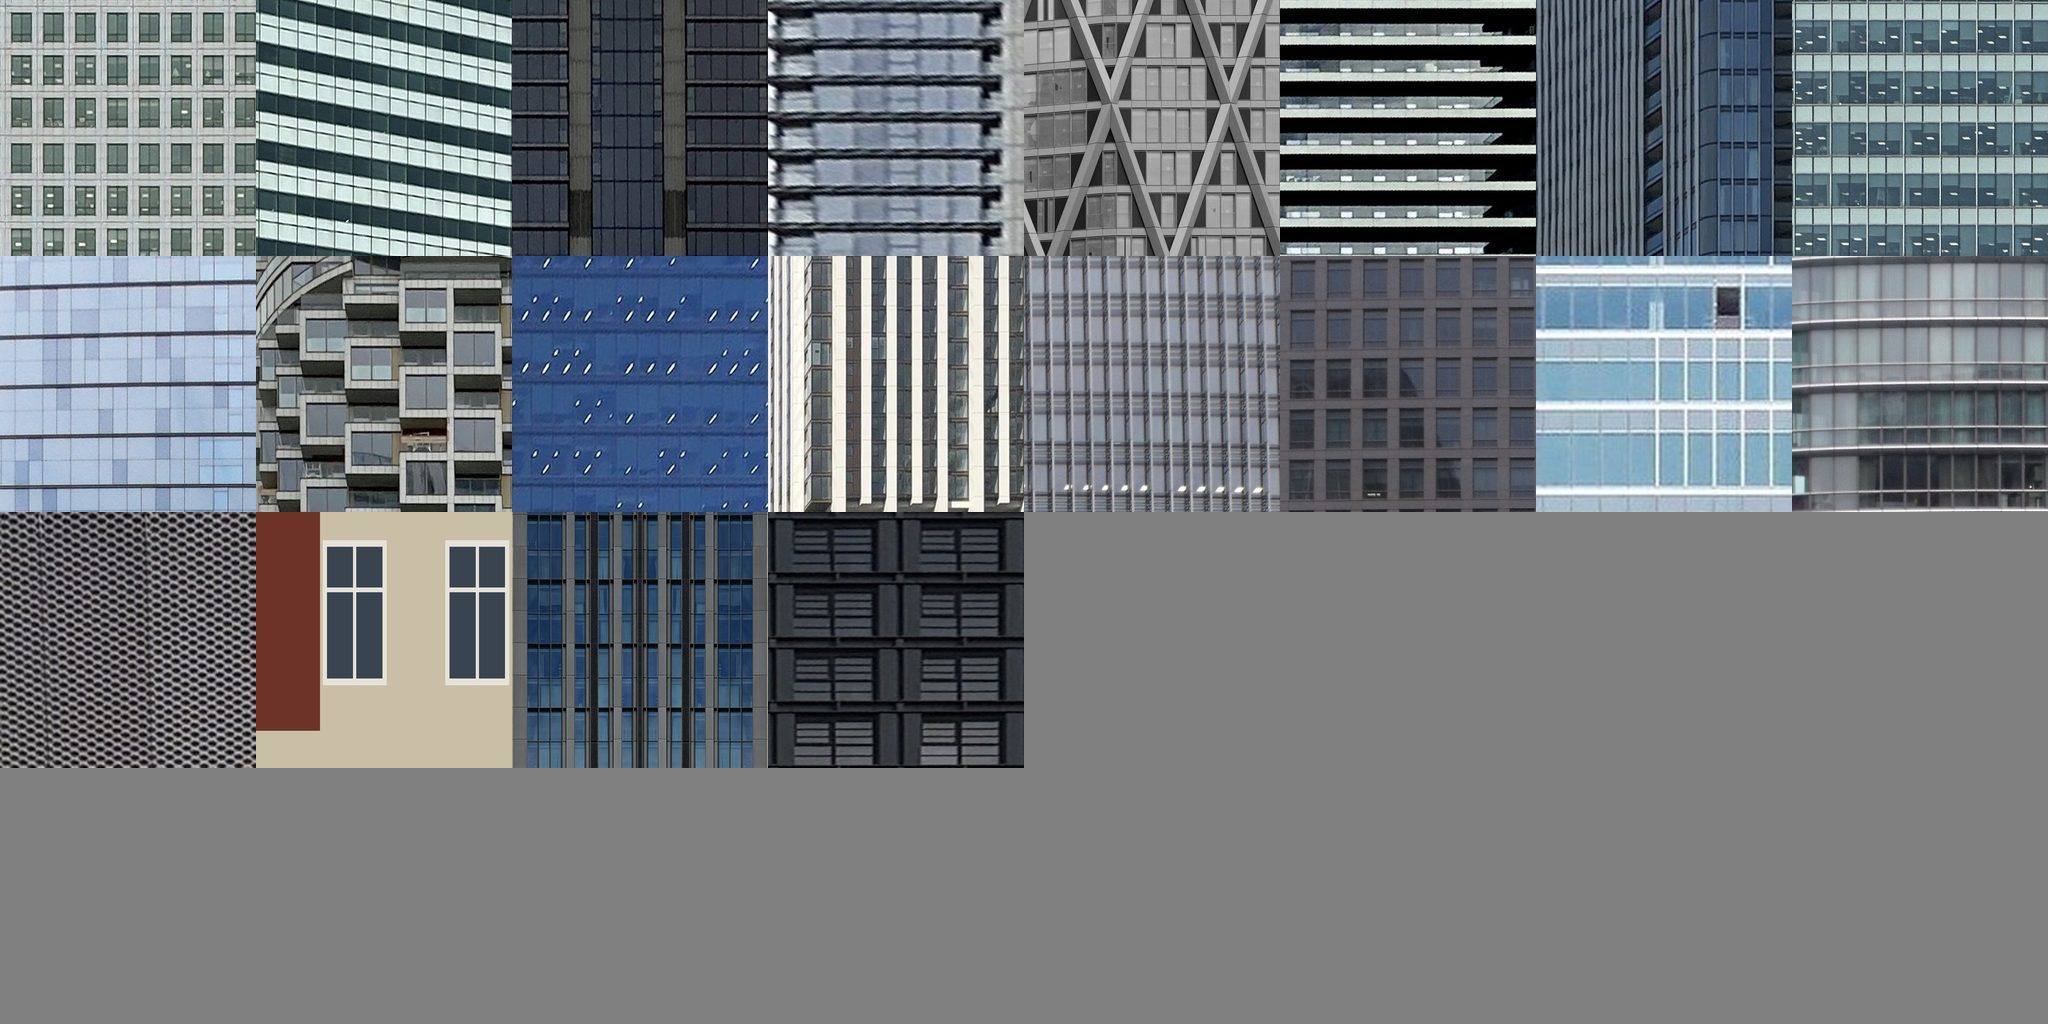
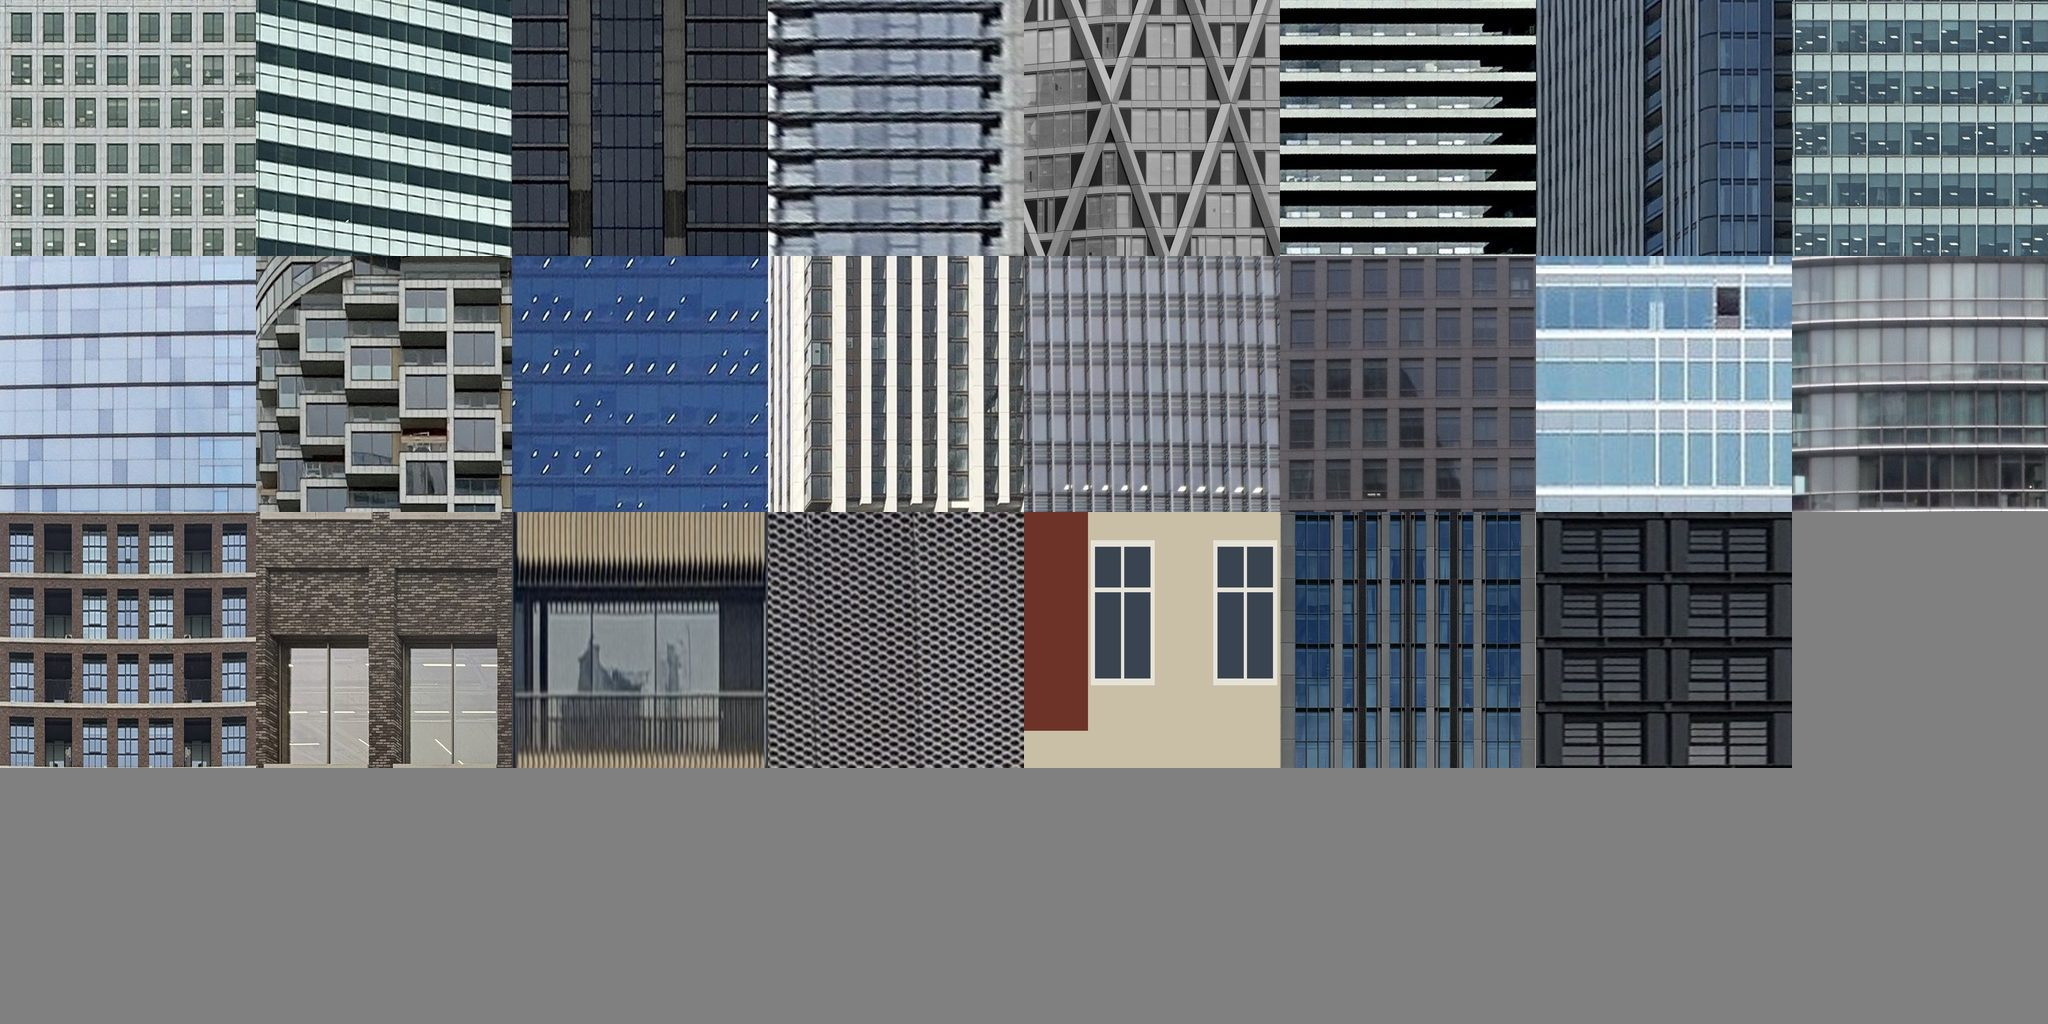
cwplans 3D page: facade tiles from the cwdock photos (Decathlon, its brick tower, Dock Shed)
- docklands/data/tex/facades.jpg/.json recomposed by compose-facade-atlas.mjs: three CC0
  tiles from danbri/londat data/images/contrib/cwdock/tiles/ in slots 16 to 18 (the
  17-storey brick tower north-east of Decathlon, OSM way 729958295; Decathlon, way
  729958296; Dock Shed, way 1427207669); the cwlibrary tiles move to slots 19 to 22.
  23 of 32 slots used. No code change.
- Tested headless (SwiftShader WebGL): FT.byModel maps the three buildings to their slots;
  close views show the tiles; photo views unchanged in mean luma to 2e-5 on 142db243; no
  page or console error on 881f5c98.
- Register entry, skill note (slots follow set names; key tiles by OSM id), activity log.

Claude-Session: https://claude.ai/code/session_0161UhPBvQmrgru2dJZ2DG7y

Changed region(s): [[0.0, 0.5, 0.875, 0.75]]

diff --git a/magpie/cwplans/DATA-REGISTER.md b/magpie/cwplans/DATA-REGISTER.md
@@ -54,7 +54,7 @@ Attribution on every page that shows OSM data: "© OpenStreetMap contributors", 
 | `docklands/data/skyline.json` | 85 kB | derived | model building indices (today's OSM outlines) as the keys of the heights | osmfr-greater-london | docklands/index.html |
 | `registry/sources/facades/facades.json` | 54 kB | derived | footprint face widths as the scale for bay widths (footprint_obb_m) | osmfr-greater-london | docklands/index.html |
 | `registry/sources/facades/work/footprints.json` | 8 kB | derived | face widths of building outlines | osmfr-greater-london |  |
-| `docklands/data/tex/facades.json` | 9 kB | derived | OSM way ids as keys of the contributed tiles | osmfr-greater-london | docklands/index.html |
+| `docklands/data/tex/facades.json` | 11 kB | derived | OSM way ids as keys of the contributed tiles | osmfr-greater-london | docklands/index.html |
 | `docklands/data/building-keys.json` | 2.6 MB | derived | OSM way and relation ids of the model buildings and their name, addr:housename, addr:housenumber, addr:street, addr:postcode, building, building:part, building:levels and wikidata tags | osmfr-greater-london | docklands/index.html |
 | `registry/sources/web/site-facts.json` | 1.9 MB | ids | join keys only: branch keys hold OSM element ids (branch:<brand QID>@node/<id>), occupant keys hold the registry occupant name (from OSM for OSM-placed occupants) |  |  |
 | `registry/sources/web/discovered-feeds.json` | 22 kB | ids | join keys of the pages each feed was found for (see site-facts.json) |  |  |
@@ -67,7 +67,7 @@ Attribution on every page that shows OSM data: "© OpenStreetMap contributors", 
 | `docklands/data/sky/lcy-approach.json` | 1 kB | derived | 2 node positions of one runway way (aeroway=runway, ref 09/27), its length and heading tags | osmfr-greater-london | docklands/index.html |
 | `docklands/data/towers.json` | 47 kB | derived | building and building:part outlines as the starting footprint (shifted onto the LiDAR); a tier whose outline is within IoU 0.95 of an OSM outline uses that outline; OSM heights kept for comparison | osmfr-greater-london | docklands/index.html |
 | `docklands/data/trees.json` | 6.4 MB | derived | natural=tree nodes (position, species, genus, taxon, height, diameter_crown, node id) not within 3 m of an inventory tree; natural=tree_row lines; green area outlines (leisure park, garden, pitch, playground, nature_reserve; landuse grass, forest, meadow, recreation_ground; natural wood, scrub) with way or relation ids | osmfr-greater-london | docklands/index.html |
-| `METHODS.md` | 595 kB | notes | describes how OSM data is fetched, clipped and joined |  |  |
+| `METHODS.md` | 596 kB | notes | describes how OSM data is fetched, clipped and joined |  |  |
 | `methods-intro.md` | 9 kB | notes | states the ODbL rule and the attribution |  |  |
 | `feeds/underground/axonometric-uses.json` | 63 kB | ids | OSM element ids, changeset ids, user names and tag counts at Canada Water, Canary Wharf, Gloucester Road and Baker Street | osmfr-greater-london | feeds/underground/AXONOMETRIC-USES.md |
 | `feeds/underground/AXONOMETRIC-USES.md` | 25 kB | ids | as axonometric-uses.json | osmfr-greater-london |  |
@@ -302,8 +302,8 @@ Outside this project; listed so that the ODbL review sees the whole repository. 
 | `registry/sources/lighting/commons-photos.json` | 96 kB | 217 Wikimedia Commons night photos of Canary Wharf: title, page, capture date, licence, author, use (fact only for share-alike), whether a thumbnail was cached | Wikimedia Commons file metadata (metadata CC0 (structured data) / facts; each photo under its own licence (mostly CC BY-SA: colour judged by eye, image not copied)) |
 | `docklands/data/tex/facades-registry.jpg` | 244 kB | registry facade atlas (the base of facades.jpg): 16 tiles of 256 px in slots 0 to 15, each cut from an open photo of one tower (whole floors and bays) | open photos of the Canary Wharf towers on Flickr and Wikimedia Commons (per photo: CC BY 2.0, CC BY 4.0 or Public Domain Mark (attribution in registry/sources/facades/photos.json); CC BY-SA photos looked at only) |
 | `docklands/data/tex/facades-registry.json` | 5 kB | slot, tile size in metres, source photo, author and licence of each registry facade tile (the base of facades.json); the attribution line | open photos of the Canary Wharf towers on Flickr and Wikimedia Commons (per photo: CC BY 2.0, CC BY 4.0 or Public Domain Mark (attribution in registry/sources/facades/photos.json); CC BY-SA photos looked at only); written or computed in this project (repository licence) |
-| `docklands/data/tex/facades.jpg` | 291 kB | facade texture atlas the 3D page loads: the 16 registry tower tiles (facades-registry.jpg) and, from slot 16, the tiles of contributed photo sets (cwlibrary: Canada Water Library mesh, a vector pattern for Columbia and Regina Point, Ontario Point, The Founding); 32 slots of 256 px | open photos of the Canary Wharf towers on Flickr and Wikimedia Commons (per photo: CC BY 2.0, CC BY 4.0 or Public Domain Mark (attribution in registry/sources/facades/photos.json); CC BY-SA photos looked at only); Photos given to the project by the owner (CC0 1.0) |
-| `docklands/data/tex/facades.json` | 9 kB | slot and tile size in metres of each facade tile: registry towers by cwb id, contributed tiles by OSM id with the model indices of this area.js (mi, model_fp) and a WGS84 point inside the building; the attribution line | open photos of the Canary Wharf towers on Flickr and Wikimedia Commons (per photo: CC BY 2.0, CC BY 4.0 or Public Domain Mark (attribution in registry/sources/facades/photos.json); CC BY-SA photos looked at only); Photos given to the project by the owner (CC0 1.0); OpenStreetMap (ODbL 1.0); written or computed in this project (repository licence) |
+| `docklands/data/tex/facades.jpg` | 338 kB | facade texture atlas the 3D page loads: the 16 registry tower tiles (facades-registry.jpg) and, from slot 16, the tiles of contributed photo sets in set-name order (cwdock: the 17-storey brick tower north-east of Decathlon, Decathlon, Dock Shed; cwlibrary: Canada Water Library mesh, a vector pattern for Columbia and Regina Point, Ontario Point, The Founding); 32 slots of 256 px, 23 used | open photos of the Canary Wharf towers on Flickr and Wikimedia Commons (per photo: CC BY 2.0, CC BY 4.0 or Public Domain Mark (attribution in registry/sources/facades/photos.json); CC BY-SA photos looked at only); Photos given to the project by the owner (CC0 1.0) |
+| `docklands/data/tex/facades.json` | 11 kB | slot and tile size in metres of each facade tile: registry towers by cwb id, contributed tiles by OSM id with the model indices of this area.js (mi, model_fp) and a WGS84 point inside the building; the attribution line | open photos of the Canary Wharf towers on Flickr and Wikimedia Commons (per photo: CC BY 2.0, CC BY 4.0 or Public Domain Mark (attribution in registry/sources/facades/photos.json); CC BY-SA photos looked at only); Photos given to the project by the owner (CC0 1.0); OpenStreetMap (ODbL 1.0); written or computed in this project (repository licence) |
 | `docklands/data/building-keys.json` | 2.6 MB | the OpenStreetMap key of every building of the 3D model (index-aligned with area.js, with its SHA-256 and a fingerprint) and the OSM name, house name, address, building type, levels and Wikidata item by id; the record card, search and share links of buildings with no registry record | OpenStreetMap (ODbL 1.0); written or computed in this project (repository licence) |
 | `docklands/building-keys.js` | 7 kB | code, not data: the 3D page's OSM record card, search by OSM name or address, and id=osm: share links for any model building | written or computed in this project (repository licence) |
 | `registry/sources/registers/gias.json` | 59 kB | schools and colleges with an E14 postcode, open and closed (URN, type, phase, status, open/close dates, pupils, UKPRN, UPRN, BNG easting/northing) | DfE Get Information About Schools (OGL v3.0); ONS Postcode Directory, August 2026 (OGL v3.0); Ordnance Survey OSTN15 transformation grid (free to use as published by OS; licence text to be recorded before production) |
@@ -401,7 +401,7 @@ Outside this project; listed so that the ODbL review sees the whole repository. 
 | `docklands/data/trees.json` | 6.4 MB | 81,875 trees (position, height, crown spread, taxon, source and record id) and 15,708 green areas (OS Open Greenspace sites, OSM parks, gardens, pitches, grass and woods, Trees Outside Woodland canopy groups) in the model box, 0.5 m, model metres | GLA London Public Realm Trees, November 2025 release (OGL v3.0); planning.data.gov.uk dataset 'tree' (OGL v3.0); OpenStreetMap (ODbL 1.0); Forest Research National Trees Outside Woodland map V1, London (OGL v3.0); OS Open Greenspace, version 2026-04 (OGL v3.0 (OS OpenData licence: http://os.uk/opendata/licence redirects to OGL v3)) |
 | `pipeline.json` | 501 kB | provenance of every transform: one W3C PROV activity a tool (used, generated, rules) | written or computed in this project (repository licence) |
 | `pipeline.jsonld` | 1.5 MB | pipeline.json and this register as JSON-LD (PROV-O, DCAT, Dublin Core) for a knowledge graph | written or computed in this project (repository licence) |
-| `METHODS.md` | 595 kB | method catalogue of the whole project: owner rules, every tool activity by subject area in rebuild order, hand-judgement steps, fault register summary | written or computed in this project (repository licence) |
+| `METHODS.md` | 596 kB | method catalogue of the whole project: owner rules, every tool activity by subject area in rebuild order, hand-judgement steps, fault register summary | written or computed in this project (repository licence) |
 | `methods-intro.md` | 9 kB | hand-written front section of METHODS.md: the policy and owner rules that govern the methods, crawl and hand-curation rules | written or computed in this project (repository licence) |
 | `docklands/data/imagery.js` | 424 kB | satellite colour per 3D terrain vertex (Sentinel-2 true colour, 13 August 2026, 10 m) | Copernicus Sentinel-2 L2A (Copernicus Sentinel data: free, full and open (attribution)) |
 | `feeds/SURVEY-2026-10-03.md` | 168 kB | the 2026-10-03 source survey (341 sources in seven areas, 135 left out with reasons) | written or computed in this project (repository licence) |

diff --git a/magpie/cwplans/skills/docklands-data-curation/ACTIVITY-LOG.md b/magpie/cwplans/skills/docklands-data-curation/ACTIVITY-LOG.md
@@ -1331,3 +1331,23 @@ Owner: "don't waste good info by burying it in our chatlogs".
   runs the afterglow fade in fp16 (reaches 0 in 19 frames at 60 frames a second). Share link restores style and overlay.
 - First tuning made the far city a white haze; glow and brightness lowered and the size rule raised to 6 px for this style.
   Skill docklands-3d-page, "Line styles" > "Vector CRT".
+
+## 2026-10-07 (late morning): cwdock facade tiles on the 3D page (Opus)
+
+- After the cwdock set was pushed (londat 8c28efa, main 142db243): photos.json `tiles` for three buildings with a
+  frontal face in diffuse light; operation `cut-facade-tiles` (graph `facade-tiles-cwdock`, 52 triples): the 17-storey
+  brick tower north-east of Decathlon (OSM way 729958295; left half of the south-south-east face and its mirror image,
+  27.0 m by 4 floors, 12.6 m), Decathlon (way 729958296; two bays by one storey, 10.0 m by 6.1 m) and Dock Shed (way
+  1427207669; one bay by one floor, 12.6 m by 3.17 m, the model's own floor). Colours are P3 values read as sRGB (F51).
+- Not tiled: 11 Maritime Street (rectified face keeps a 3 deg tilt; the other face has projecting balconies), The
+  Founding (has a cwlibrary tile; its three parts need three outlines), Three Deal Porters (model a guessed 6 m, F52).
+- `compose-facade-atlas.mjs` (graph `facade-atlas`, 26 triples): 23 of 32 slots. The new tiles took slots 16 to 18
+  (set-name order) and moved the cwlibrary tiles to 19 to 22; the page reads slots from `facades.json` (skill lesson).
+- Test (headless Chromium, SwiftShader WebGL, worktree at origin/master): `FT.byModel` maps model buildings 17650, 17651
+  and 36551 to slots 16, 17, 18 and the cwlibrary buildings to 19 to 22; close views of Decathlon and Dock Shed with
+  photo facades on and off differ in 18 to 28 % of pixels and show the tiles; the photo views rotherhithe, greenland and
+  pier at 1600 x 900 DPR 1 and 390 x 844 DPR 3 have mean luma equal to the old atlas to 2e-5 (on 142db243); no page or
+  console error. Re-run on 881f5c98 (Line drawing style): no error, but the greenland view gave mean luma 0.0925, 0.0925
+  and 0.211 in three runs with the same files, so photo-view luma no longer compares run to run there; not investigated.
+- kgx: `build-kgx.mjs` twice (second run new: 0), generation gen-94788565be0fae62, 294,405 triples; store check 17 of 17
+  the same.

diff --git a/magpie/cwplans/skills/docklands-data-curation/SKILL.md b/magpie/cwplans/skills/docklands-data-curation/SKILL.md
@@ -411,6 +411,8 @@ textures for their 3D models."
   of `docklands/data/tex/facades.jpg/.json`, keyed by OSM id with model indices from `key-model-buildings.mjs`. The page
   draws them on any building (skill `docklands-3d-page`, "Building keys"). Order after new photos: `contrib-photos.mjs
   <set>`, `compose-facade-atlas.mjs`, `build-kgx.mjs`; after a model rebuild: `key-model-buildings.mjs` first.
+  Slots follow the sorted set names, so a new set can move an earlier set's tiles (cwdock took 16 to 18 and moved
+  cwlibrary from 16-19 to 19-22): refer to a tile by its OSM key, never by its slot number.
 - **Sets:** `cwlibrary` (4 photos, 2026-10-06 about 16:30 BST, low evening sun) and `cwdock` (20 photos, 2026-10-07 about
   09:00 BST, overcast and light drizzle; owner: "taken NOW near the Dock by the Library ... one of some stickers on the
   library door for white calibration"). Name a set after the place (`cw<place>`), number the photos in the owner's order.
